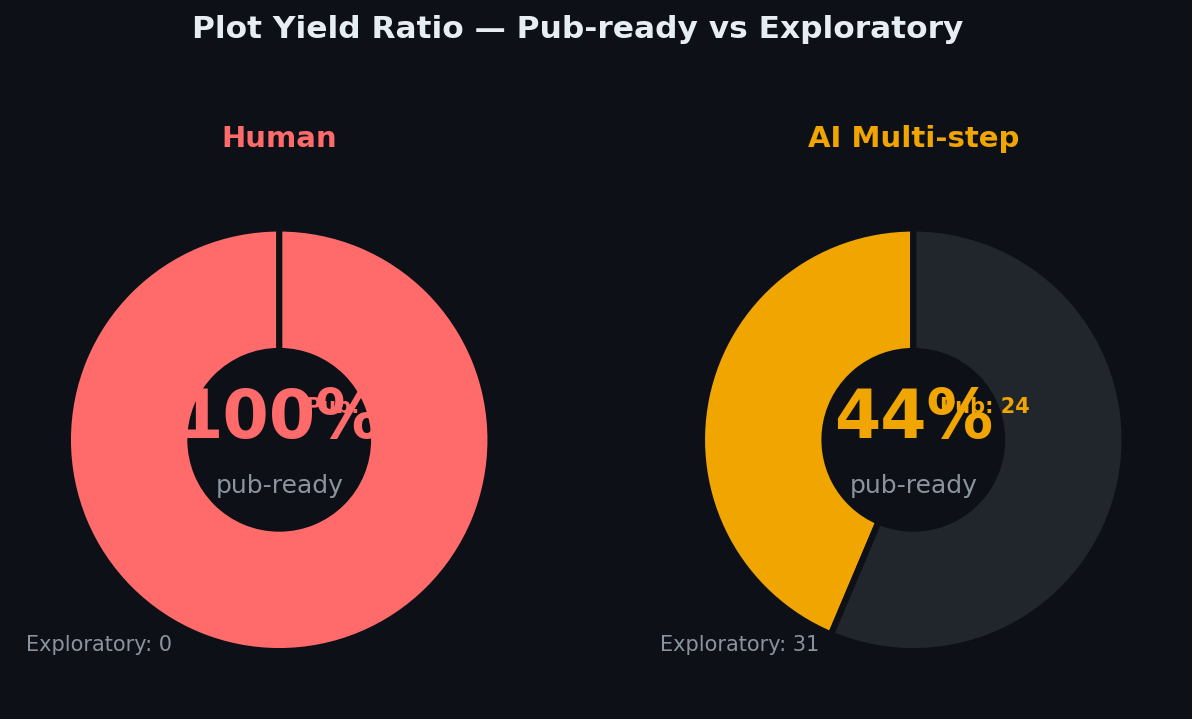
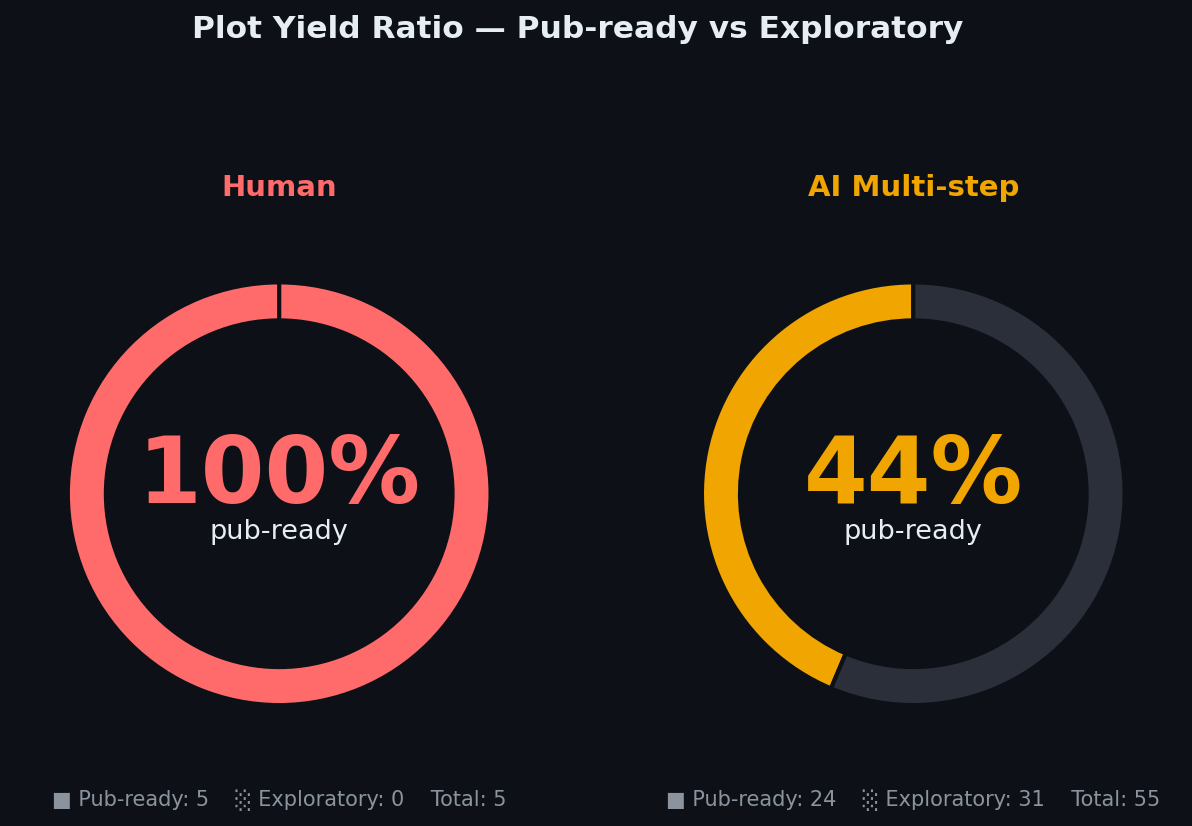
comparisons

diff --git a/comparison/compare.py b/comparison/compare.py
@@ -552,7 +552,8 @@ def fig_inventory(metrics: dict):
 def fig_yield(metrics: dict):
     """Donut per team: pub-ready vs exploratory plot fraction."""
     n = len(ACTIVE_TEAMS)
-    fig, axes = plt.subplots(1, n, figsize=(max(5 * n, 8), 5.5))
+    # Extra vertical space so count labels below the ring don't clip
+    fig, axes = plt.subplots(1, n, figsize=(max(5 * n, 8), 6.2))
     if n == 1:
         axes = [axes]
 
@@ -563,34 +564,29 @@ def fig_yield(metrics: dict):
         pct   = 100 * pub / total if total else 0
         color = COLORS[label]
 
-        wedge_colors = [color, "#21262D"]
+        # Thin ring: width=0.18 leaves a large open centre for the text
         ax.pie(
             [pub, expl],
-            colors=wedge_colors,
+            colors=[color, "#2A2F3A"],
             startangle=90,
-            wedgeprops={"width": 0.58, "edgecolor": BG, "linewidth": 3},
+            wedgeprops={"width": 0.18, "edgecolor": BG, "linewidth": 2},
         )
 
-        # Single centred text block: percentage + label, well inside the hole
-        ax.text(0, 0.10, f"{pct:.0f}%",
+        # Large % in the centre — plenty of room with a thin ring
+        ax.text(0, 0.08, f"{pct:.0f}%",
                 ha="center", va="center",
-                fontsize=32, fontweight="bold", color=color)
-        ax.text(0, -0.22, "pub-ready",
+                fontsize=44, fontweight="bold", color=color)
+        ax.text(0, -0.18, "pub-ready",
                 ha="center", va="center",
-                fontsize=12, color=MUTED)
+                fontsize=13, color=TXT)
 
-        # Counts as small annotations outside the ring, avoiding overlap
-        ax.annotate(
-            f"Pub: {pub}",
-            xy=(0.55, 0.55), xycoords="axes fraction",
-            fontsize=10, color=color, fontweight="bold",
-        )
-        ax.annotate(
-            f"Exploratory: {expl}",
-            xy=(0.02, 0.10), xycoords="axes fraction",
-            fontsize=10, color=MUTED,
-        )
-        ax.set_title(SHORT[label], pad=14, color=color,
+        # Raw counts just below the axes (outside the pie area)
+        ax.text(0, -1.45,
+                f"■ Pub-ready: {pub}    ░ Exploratory: {expl}    Total: {total}",
+                ha="center", va="center",
+                fontsize=10, color=MUTED)
+
+        ax.set_title(SHORT[label], pad=16, color=color,
                      fontsize=14, fontweight="bold")
 
     fig.suptitle("Plot Yield Ratio — Pub-ready vs Exploratory",
